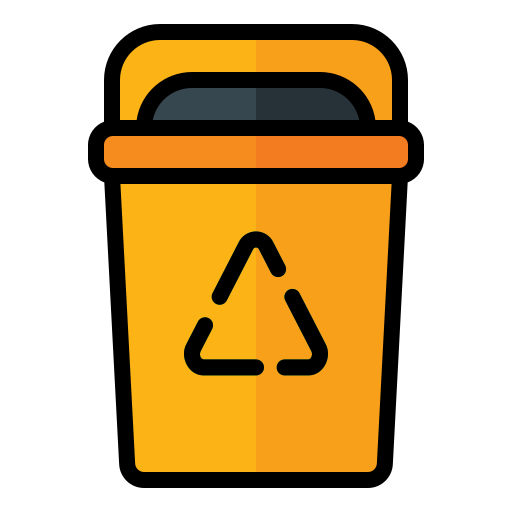
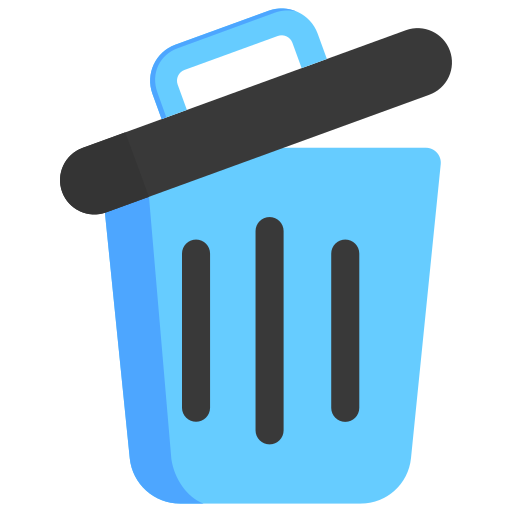
updated

diff --git a/public/js/local/inventory/inventory-api.js b/public/js/local/inventory/inventory-api.js
@@ -46,7 +46,10 @@ document.addEventListener("DOMContentLoaded", function () {
                     <td>${list.batch_number}</td>
                     <td>${list.product_quantity}</td>
                     <td>${list.expiration}</td>
-                    <td><img src="/img/local/uninstall.png" style="height: 28px;" onclick="deleteInventoryItem('${list.product_id}')"></td>
+                    <td>
+                    <img src="/img/local/pencil.png" style="height: 20px; margin: 5px;" onclick="updateInventoryItem('${list.product_id}')">
+                    <img src="/img/local/recycle-bin.png" style="height: 20px; margin: 5px;" onclick="deleteInventoryItem('${list.product_id}')">
+                    </td>
                 </tr>`;
         });
     } else {
